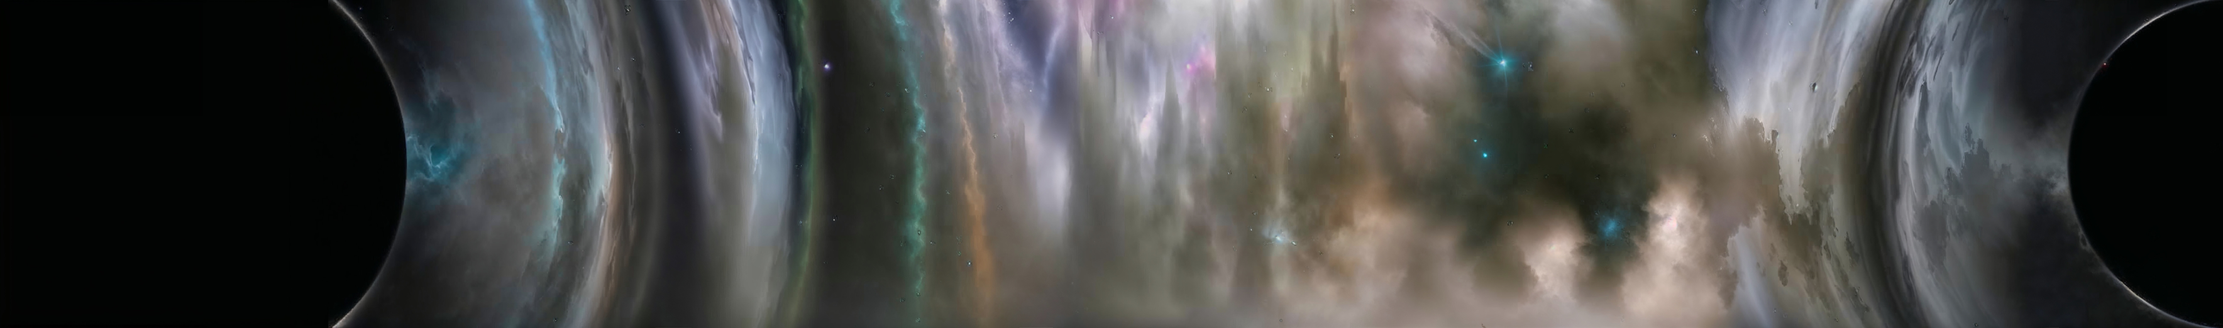
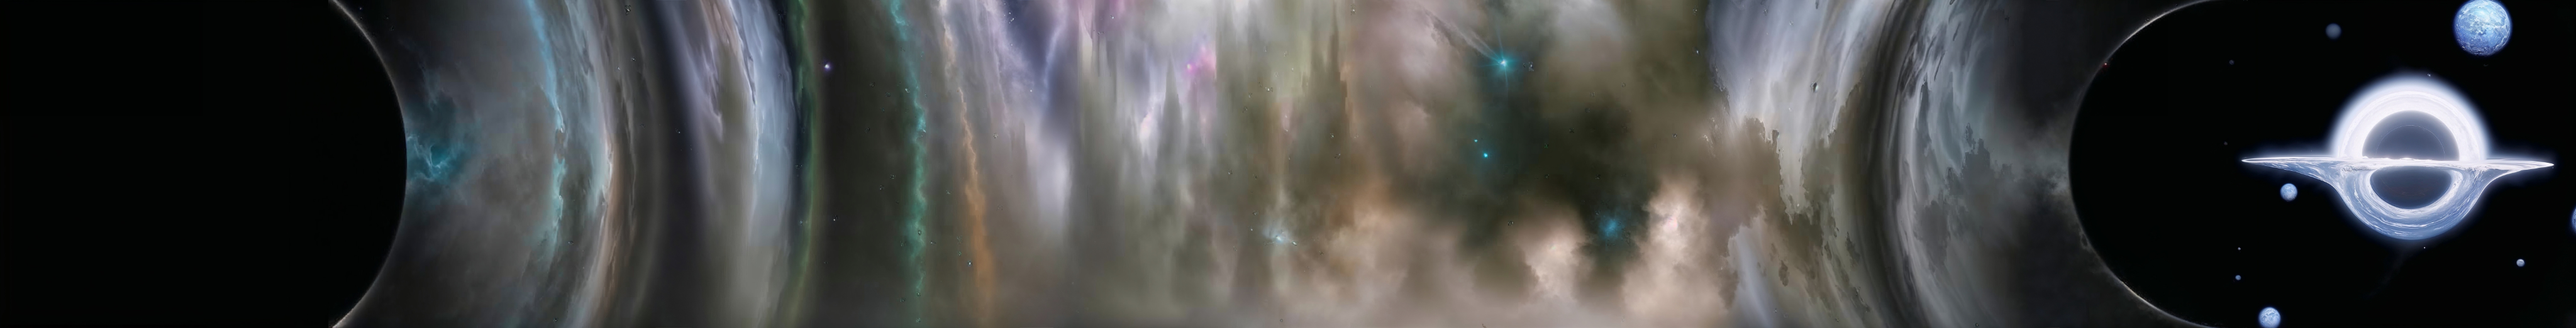
Единая картинка на всю игру

diff --git a/src/features/game/entities/ParallaxBackground.ts b/src/features/game/entities/ParallaxBackground.ts
@@ -5,7 +5,7 @@ export class ParallaxBackground {
   private backgrounds: Phaser.GameObjects.Image[] = [];
   private backgroundTexture: string = "bg_space";
   private finalBackground: Phaser.GameObjects.Image | null = null;
-  private currentParallaxFactor: number = 0.1;
+  private currentParallaxFactor: number = 0.08;
 
   constructor(scene: Phaser.Scene) {
     this.scene = scene;
@@ -25,71 +25,26 @@ export class ParallaxBackground {
     const scaleY = screenHeight / imageHeight;
     const scaledWidth = imageWidth * scaleY;
 
-    // Определяем количество изображений нужных для покрытия области игры
-    const gameWidth = 50000; // Достаточно большая область для игры
-    const imagesNeeded = Math.ceil(gameWidth / scaledWidth) + 1;
+    // Создаем только один фон без повторений
     const cameraXAfterLoad = this.scene.cameras.main.scrollX;
-    const initialIndent = 2000;
+    const xPosition = cameraXAfterLoad + scaledWidth / 2;
 
-    for (let i = 0; i < imagesNeeded; i++) {
-      const xPosition =
-        i * scaledWidth + scaledWidth / 2 + initialIndent + cameraXAfterLoad;
-
-      const background = this.scene.add.image(
-        xPosition,
-        screenHeight / 2, // Центрируем по вертикали
-        this.backgroundTexture
-      );
-
-      // Устанавливаем размер с сохранением пропорций
-      background.setDisplaySize(scaledWidth, screenHeight);
-
-      // Устанавливаем глубину фона (за всеми остальными объектами)
-      background.setDepth(-100);
-
-      // Устанавливаем начальный коэффициент параллакса
-      background.setScrollFactor(this.currentParallaxFactor, 1);
-
-      this.backgrounds.push(background);
-    }
-  }
-
-  // Метод для показа финального фона
-  public showFinalBackground(): void {
-    if (this.finalBackground) return; // Уже показан
-
-    const camera = this.scene.cameras.main;
-    const screenHeight = camera.height / 0.5;
-
-    // Получаем размеры финальной текстуры
-    const texture = this.scene.textures.get("bg_final");
-    const imageWidth = texture.getSourceImage().width;
-    const imageHeight = texture.getSourceImage().height;
-
-    // Вычисляем масштаб для заполнения экрана по высоте
-    const scaleY = screenHeight / imageHeight;
-    const scaledWidth = imageWidth * scaleY;
-
-    // Позиционируем финальный фон справа от экрана
-    const startX = camera.scrollX + camera.width + scaledWidth / 2;
-
-    this.finalBackground = this.scene.add.image(
-      startX,
-      screenHeight / 2,
-      "bg_final"
+    const background = this.scene.add.image(
+      xPosition,
+      screenHeight / 2, // Центрируем по вертикали
+      this.backgroundTexture
     );
 
-    this.finalBackground.setDisplaySize(scaledWidth, screenHeight);
-    this.finalBackground.setDepth(-99); // Чуть выше обычного фона
-    this.finalBackground.setScrollFactor(this.currentParallaxFactor, 1);
+    // Устанавливаем размер с сохранением пропорций
+    background.setDisplaySize(scaledWidth, screenHeight);
 
-    // Анимация появления слева
-    this.scene.tweens.add({
-      targets: this.finalBackground,
-      x: camera.scrollX + camera.width / 2,
-      duration: 3000,
-      ease: "Power2",
-    });
+    // Устанавливаем глубину фона (за всеми остальными объектами)
+    background.setDepth(-100);
+
+    // Устанавливаем начальный коэффициент параллакса
+    background.setScrollFactor(this.currentParallaxFactor, 1);
+
+    this.backgrounds.push(background);
   }
 
   public update(): void {

diff --git a/src/features/game/utils/gameEndLogic.ts b/src/features/game/utils/gameEndLogic.ts
@@ -55,10 +55,7 @@ export class GameEndLogic {
     );
   }
 
-  public handleEndGameSequence(
-    scene: Phaser.Scene,
-    parallaxBackground: ParallaxBackground | null
-  ): void {
+  public handleEndGameSequence(scene: Phaser.Scene): void {
     if (!this.gameEndTriggered) return;
 
     const camera = scene.cameras.main;
@@ -70,10 +67,6 @@ export class GameEndLogic {
         object.x < camera.scrollX + camera.width * 2 + object.getSize()
       );
     });
-
-    if (parallaxBackground) {
-      parallaxBackground.showFinalBackground();
-    }
 
     // Если все астероиды исчезли из поля зрения, запускаем анимацию свечения
     if (visibleAsteroids.length === 0) {

diff --git a/src/features/game/utils/scene.ts b/src/features/game/utils/scene.ts
@@ -17,7 +17,6 @@ function preloadTextures(scene: Phaser.Scene) {
 
   // Загружаем фоновые изображения
   scene.load.image("bg_space", "assets/backgrounds/space-background.png");
-  scene.load.image("bg_final", "assets/backgrounds/final-background.png");
 
   preloadPlayerTextures(scene);
 }

diff --git a/src/features/game/ui/Game.tsx b/src/features/game/ui/Game.tsx
@@ -395,10 +395,7 @@ const Game = React.memo(() => {
           return true;
         });
 
-        gameEndLogicRef.current.handleEndGameSequence(
-          this,
-          parallaxBackgroundRef.current
-        );
+        gameEndLogicRef.current.handleEndGameSequence(this);
       }
     }
   }, []);
